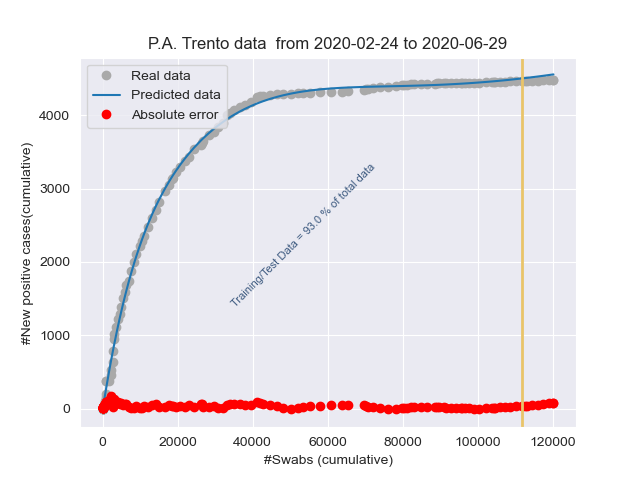
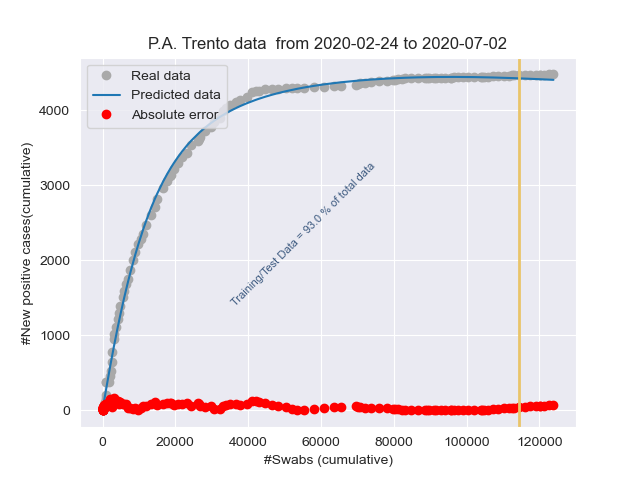
Add files via upload

diff --git a/stat_Friuli Venezia Giulia.html b/stat_Friuli Venezia Giulia.html
@@ -1,1 +1,1 @@
-<!DOCTYPE html><html lang="it"><head><title>Results</title><meta charset="utf-8"><meta name="viewport" content="width=device-width, initial-scale=1"><link rel="stylesheet" href="bootstrap.min.css"><script src="https://ajax.googleapis.com/ajax/libs/jquery/3.4.1/jquery.min.js"></script><script src="https://maxcdn.bootstrapcdn.com/bootstrap/3.4.1/js/bootstrap.min.js"></script></head><body><h3>Day: 2020-06-29</h3><p class="lead my-3">New positive cases: <b>0</b></p><p class="lead my-3">Variation of positive cases: <b>-100.0%</b></p><p class="lead my-3">Number of swabs: <b>719.0</b></p><p class="lead my-3">Variation of swabs: <b>0.38%</b></p><p class="lead my-3">Postive cases/Swabs: <b>0.0 %</b></p><p class="lead my-3">Number of people admitted to Intensive care: <b>0</b></p><p class="lead my-3">Number of recovered people: <b>2.0</b></p><p class="lead my-3">Number of dead people: <b>0.0</b></p><h3>Total</h3><p class="lead my-3">Population of  Friuli Venezia Giulia: <b>1215220</b> <a href="http://dati.istat.it/Index.aspx?QueryId=18548" target="_blank">ISTAT data</a></p><p class="lead my-3">Total number of positive cases from 2020-02-24 00:00:00 to 2020-06-29: <b> 3308</b></p><p class="lead my-3">Total number of swabs from 2020-02-24 00:00:00 to 2020-06-29: <b> 187500</b></p><p class="lead my-3">TotalSwabs/Population: <b> 15.43%</b></p></body></html>
+<!DOCTYPE html><html lang="it"><head><title>Results</title><meta charset="utf-8"><meta name="viewport" content="width=device-width, initial-scale=1"><link rel="stylesheet" href="bootstrap.min.css"><script src="https://ajax.googleapis.com/ajax/libs/jquery/3.4.1/jquery.min.js"></script><script src="https://maxcdn.bootstrapcdn.com/bootstrap/3.4.1/js/bootstrap.min.js"></script></head><body><h3>Day: 2020-07-02</h3><p class="lead my-3">New positive cases: <b>2</b></p><p class="lead my-3">Variation of positive cases: <b>-50.0%</b></p><p class="lead my-3">Number of swabs: <b>2289.0</b></p><p class="lead my-3">Variation of swabs: <b>1.19%</b></p><p class="lead my-3">Postive cases/Swabs: <b>0.09 %</b></p><p class="lead my-3">Number of people admitted to Intensive care: <b>0</b></p><p class="lead my-3">Number of recovered people: <b>-4.0</b></p><p class="lead my-3">Number of dead people: <b>0.0</b></p><h3>Total</h3><p class="lead my-3">Population of  Friuli Venezia Giulia: <b>1215220</b> <a href="http://dati.istat.it/Index.aspx?QueryId=18548" target="_blank">ISTAT data</a></p><p class="lead my-3">Total number of positive cases from 2020-02-24 00:00:00 to 2020-07-02: <b> 3314</b></p><p class="lead my-3">Total number of swabs from 2020-02-24 00:00:00 to 2020-07-02: <b> 194395</b></p><p class="lead my-3">TotalSwabs/Population: <b> 16.0%</b></p></body></html>

diff --git a/stat_Emilia-Romagna.html b/stat_Emilia-Romagna.html
@@ -1,1 +1,1 @@
-<!DOCTYPE html><html lang="it"><head><title>Results</title><meta charset="utf-8"><meta name="viewport" content="width=device-width, initial-scale=1"><link rel="stylesheet" href="bootstrap.min.css"><script src="https://ajax.googleapis.com/ajax/libs/jquery/3.4.1/jquery.min.js"></script><script src="https://maxcdn.bootstrapcdn.com/bootstrap/3.4.1/js/bootstrap.min.js"></script></head><body><h3>Day: 2020-06-29</h3><p class="lead my-3">New positive cases: <b>16</b></p><p class="lead my-3">Variation of positive cases: <b>-23.81%</b></p><p class="lead my-3">Number of swabs: <b>2721.0</b></p><p class="lead my-3">Variation of swabs: <b>0.56%</b></p><p class="lead my-3">Postive cases/Swabs: <b>0.59 %</b></p><p class="lead my-3">Number of people admitted to Intensive care: <b>12</b></p><p class="lead my-3">Number of recovered people: <b>24.0</b></p><p class="lead my-3">Number of dead people: <b>2.0</b></p><h3>Total</h3><p class="lead my-3">Population of  Emilia-Romagna: <b>4459477</b> <a href="http://dati.istat.it/Index.aspx?QueryId=18548" target="_blank">ISTAT data</a></p><p class="lead my-3">Total number of positive cases from 2020-02-24 00:00:00 to 2020-06-29: <b> 28476</b></p><p class="lead my-3">Total number of swabs from 2020-02-24 00:00:00 to 2020-06-29: <b> 489451</b></p><p class="lead my-3">TotalSwabs/Population: <b> 10.98%</b></p></body></html>
+<!DOCTYPE html><html lang="it"><head><title>Results</title><meta charset="utf-8"><meta name="viewport" content="width=device-width, initial-scale=1"><link rel="stylesheet" href="bootstrap.min.css"><script src="https://ajax.googleapis.com/ajax/libs/jquery/3.4.1/jquery.min.js"></script><script src="https://maxcdn.bootstrapcdn.com/bootstrap/3.4.1/js/bootstrap.min.js"></script></head><body><h3>Day: 2020-07-02</h3><p class="lead my-3">New positive cases: <b>27</b></p><p class="lead my-3">Variation of positive cases: <b>68.75%</b></p><p class="lead my-3">Number of swabs: <b>4862.0</b></p><p class="lead my-3">Variation of swabs: <b>0.97%</b></p><p class="lead my-3">Postive cases/Swabs: <b>0.56 %</b></p><p class="lead my-3">Number of people admitted to Intensive care: <b>9</b></p><p class="lead my-3">Number of recovered people: <b>25.0</b></p><p class="lead my-3">Number of dead people: <b>1.0</b></p><h3>Total</h3><p class="lead my-3">Population of  Emilia-Romagna: <b>4459477</b> <a href="http://dati.istat.it/Index.aspx?QueryId=18548" target="_blank">ISTAT data</a></p><p class="lead my-3">Total number of positive cases from 2020-02-24 00:00:00 to 2020-07-02: <b> 28539</b></p><p class="lead my-3">Total number of swabs from 2020-02-24 00:00:00 to 2020-07-02: <b> 504288</b></p><p class="lead my-3">TotalSwabs/Population: <b> 11.31%</b></p></body></html>

diff --git a/stat_Lombardia.html b/stat_Lombardia.html
@@ -1,1 +1,1 @@
-<!DOCTYPE html><html lang="it"><head><title>Results</title><meta charset="utf-8"><meta name="viewport" content="width=device-width, initial-scale=1"><link rel="stylesheet" href="bootstrap.min.css"><script src="https://ajax.googleapis.com/ajax/libs/jquery/3.4.1/jquery.min.js"></script><script src="https://maxcdn.bootstrapcdn.com/bootstrap/3.4.1/js/bootstrap.min.js"></script></head><body><h3>Day: 2020-06-29</h3><p class="lead my-3">New positive cases: <b>78</b></p><p class="lead my-3">Variation of positive cases: <b>-19.59%</b></p><p class="lead my-3">Number of swabs: <b>7991.0</b></p><p class="lead my-3">Variation of swabs: <b>0.78%</b></p><p class="lead my-3">Postive cases/Swabs: <b>0.98 %</b></p><p class="lead my-3">Number of people admitted to Intensive care: <b>43</b></p><p class="lead my-3">Number of recovered people: <b>201.0</b></p><p class="lead my-3">Number of dead people: <b>1.0</b></p><h3>Total</h3><p class="lead my-3">Population of  Lombardia: <b>10060574</b> <a href="http://dati.istat.it/Index.aspx?QueryId=18548" target="_blank">ISTAT data</a></p><p class="lead my-3">Total number of positive cases from 2020-02-24 00:00:00 to 2020-06-29: <b> 93833</b></p><p class="lead my-3">Total number of swabs from 2020-02-24 00:00:00 to 2020-06-29: <b> 1030431</b></p><p class="lead my-3">TotalSwabs/Population: <b> 10.24%</b></p></body></html>
+<!DOCTYPE html><html lang="it"><head><title>Results</title><meta charset="utf-8"><meta name="viewport" content="width=device-width, initial-scale=1"><link rel="stylesheet" href="bootstrap.min.css"><script src="https://ajax.googleapis.com/ajax/libs/jquery/3.4.1/jquery.min.js"></script><script src="https://maxcdn.bootstrapcdn.com/bootstrap/3.4.1/js/bootstrap.min.js"></script></head><body><h3>Day: 2020-07-02</h3><p class="lead my-3">New positive cases: <b>98</b></p><p class="lead my-3">Variation of positive cases: <b>-10.09%</b></p><p class="lead my-3">Number of swabs: <b>9440.0</b></p><p class="lead my-3">Variation of swabs: <b>0.9%</b></p><p class="lead my-3">Postive cases/Swabs: <b>1.04 %</b></p><p class="lead my-3">Number of people admitted to Intensive care: <b>41</b></p><p class="lead my-3">Number of recovered people: <b>188.0</b></p><p class="lead my-3">Number of dead people: <b>21.0</b></p><h3>Total</h3><p class="lead my-3">Population of  Lombardia: <b>10060574</b> <a href="http://dati.istat.it/Index.aspx?QueryId=18548" target="_blank">ISTAT data</a></p><p class="lead my-3">Total number of positive cases from 2020-02-24 00:00:00 to 2020-07-02: <b> 94102</b></p><p class="lead my-3">Total number of swabs from 2020-02-24 00:00:00 to 2020-07-02: <b> 1054415</b></p><p class="lead my-3">TotalSwabs/Population: <b> 10.48%</b></p></body></html>

diff --git a/stat_Italy.html b/stat_Italy.html
@@ -1,1 +1,1 @@
-<!DOCTYPE html><html lang="it"><head><title>Results</title><meta charset="utf-8"><meta name="viewport" content="width=device-width, initial-scale=1"><link rel="stylesheet" href="bootstrap.min.css"><script src="https://ajax.googleapis.com/ajax/libs/jquery/3.4.1/jquery.min.js"></script><script src="https://maxcdn.bootstrapcdn.com/bootstrap/3.4.1/js/bootstrap.min.js"></script></head><body><h3>Day: 2020-06-29</h3><p class="lead my-3">New positive cases: <b>126</b></p><p class="lead my-3">Variation of positive cases: <b>-27.59%</b></p><p class="lead my-3">Number of swabs: <b>27218.0</b></p><p class="lead my-3">Variation of swabs: <b>0.51%</b></p><p class="lead my-3">Postive cases/Swabs: <b>0.46 %</b></p><p class="lead my-3">Number of people admitted to Intensive care: <b>96</b></p><p class="lead my-3">Number of recovered people: <b>305.0</b></p><p class="lead my-3">Number of dead people: <b>6.0</b></p><h3>Total</h3><p class="lead my-3">Population of  Italy: <b>60359546</b> <a href="http://dati.istat.it/Index.aspx?QueryId=18548" target="_blank">ISTAT data</a></p><p class="lead my-3">Total number of positive cases from 2020-02-24 00:00:00 to 2020-06-29: <b> 240453</b></p><p class="lead my-3">Total number of swabs from 2020-02-24 00:00:00 to 2020-06-29: <b> 5341837</b></p><p class="lead my-3">TotalSwabs/Population: <b> 8.85%</b></p></body></html>
+<!DOCTYPE html><html lang="it"><head><title>Results</title><meta charset="utf-8"><meta name="viewport" content="width=device-width, initial-scale=1"><link rel="stylesheet" href="bootstrap.min.css"><script src="https://ajax.googleapis.com/ajax/libs/jquery/3.4.1/jquery.min.js"></script><script src="https://maxcdn.bootstrapcdn.com/bootstrap/3.4.1/js/bootstrap.min.js"></script></head><body><h3>Day: 2020-07-02</h3><p class="lead my-3">New positive cases: <b>201</b></p><p class="lead my-3">Variation of positive cases: <b>7.49%</b></p><p class="lead my-3">Number of swabs: <b>53243.0</b></p><p class="lead my-3">Variation of swabs: <b>0.98%</b></p><p class="lead my-3">Postive cases/Swabs: <b>0.38 %</b></p><p class="lead my-3">Number of people admitted to Intensive care: <b>82</b></p><p class="lead my-3">Number of recovered people: <b>366.0</b></p><p class="lead my-3">Number of dead people: <b>30.0</b></p><h3>Total</h3><p class="lead my-3">Population of  Italy: <b>60359546</b> <a href="http://dati.istat.it/Index.aspx?QueryId=18548" target="_blank">ISTAT data</a></p><p class="lead my-3">Total number of positive cases from 2020-02-24 00:00:00 to 2020-07-02: <b> 240983</b></p><p class="lead my-3">Total number of swabs from 2020-02-24 00:00:00 to 2020-07-02: <b> 5498719</b></p><p class="lead my-3">TotalSwabs/Population: <b> 9.11%</b></p></body></html>

diff --git a/stat_Piemonte.html b/stat_Piemonte.html
@@ -1,1 +1,1 @@
-<!DOCTYPE html><html lang="it"><head><title>Results</title><meta charset="utf-8"><meta name="viewport" content="width=device-width, initial-scale=1"><link rel="stylesheet" href="bootstrap.min.css"><script src="https://ajax.googleapis.com/ajax/libs/jquery/3.4.1/jquery.min.js"></script><script src="https://maxcdn.bootstrapcdn.com/bootstrap/3.4.1/js/bootstrap.min.js"></script></head><body><h3>Day: 2020-06-29</h3><p class="lead my-3">New positive cases: <b>2</b></p><p class="lead my-3">Variation of positive cases: <b>-85.71%</b></p><p class="lead my-3">Number of swabs: <b>1126.0</b></p><p class="lead my-3">Variation of swabs: <b>0.27%</b></p><p class="lead my-3">Postive cases/Swabs: <b>0.18 %</b></p><p class="lead my-3">Number of people admitted to Intensive care: <b>11</b></p><p class="lead my-3">Number of recovered people: <b>5.0</b></p><p class="lead my-3">Number of dead people: <b>2.0</b></p><h3>Total</h3><p class="lead my-3">Population of  Piemonte: <b>4356406</b> <a href="http://dati.istat.it/Index.aspx?QueryId=18548" target="_blank">ISTAT data</a></p><p class="lead my-3">Total number of positive cases from 2020-02-24 00:00:00 to 2020-06-29: <b> 31338</b></p><p class="lead my-3">Total number of swabs from 2020-02-24 00:00:00 to 2020-06-29: <b> 411939</b></p><p class="lead my-3">TotalSwabs/Population: <b> 9.46%</b></p></body></html>
+<!DOCTYPE html><html lang="it"><head><title>Results</title><meta charset="utf-8"><meta name="viewport" content="width=device-width, initial-scale=1"><link rel="stylesheet" href="bootstrap.min.css"><script src="https://ajax.googleapis.com/ajax/libs/jquery/3.4.1/jquery.min.js"></script><script src="https://maxcdn.bootstrapcdn.com/bootstrap/3.4.1/js/bootstrap.min.js"></script></head><body><h3>Day: 2020-07-02</h3><p class="lead my-3">New positive cases: <b>13</b></p><p class="lead my-3">Variation of positive cases: <b>-18.75%</b></p><p class="lead my-3">Number of swabs: <b>3356.0</b></p><p class="lead my-3">Variation of swabs: <b>0.8%</b></p><p class="lead my-3">Postive cases/Swabs: <b>0.39 %</b></p><p class="lead my-3">Number of people admitted to Intensive care: <b>11</b></p><p class="lead my-3">Number of recovered people: <b>62.0</b></p><p class="lead my-3">Number of dead people: <b>5.0</b></p><h3>Total</h3><p class="lead my-3">Population of  Piemonte: <b>4356406</b> <a href="http://dati.istat.it/Index.aspx?QueryId=18548" target="_blank">ISTAT data</a></p><p class="lead my-3">Total number of positive cases from 2020-02-24 00:00:00 to 2020-07-02: <b> 31378</b></p><p class="lead my-3">Total number of swabs from 2020-02-24 00:00:00 to 2020-07-02: <b> 422647</b></p><p class="lead my-3">TotalSwabs/Population: <b> 9.7%</b></p></body></html>

diff --git a/stat_Veneto.html b/stat_Veneto.html
@@ -1,1 +1,1 @@
-<!DOCTYPE html><html lang="it"><head><title>Results</title><meta charset="utf-8"><meta name="viewport" content="width=device-width, initial-scale=1"><link rel="stylesheet" href="bootstrap.min.css"><script src="https://ajax.googleapis.com/ajax/libs/jquery/3.4.1/jquery.min.js"></script><script src="https://maxcdn.bootstrapcdn.com/bootstrap/3.4.1/js/bootstrap.min.js"></script></head><body><h3>Day: 2020-06-29</h3><p class="lead my-3">New positive cases: <b>3</b></p><p class="lead my-3">Variation of positive cases: <b>-72.73%</b></p><p class="lead my-3">Number of swabs: <b>4861.0</b></p><p class="lead my-3">Variation of swabs: <b>0.51%</b></p><p class="lead my-3">Postive cases/Swabs: <b>0.06 %</b></p><p class="lead my-3">Number of people admitted to Intensive care: <b>1</b></p><p class="lead my-3">Number of recovered people: <b>1.0</b></p><p class="lead my-3">Number of dead people: <b>0.0</b></p><h3>Total</h3><p class="lead my-3">Population of  Veneto: <b>4905854</b> <a href="http://dati.istat.it/Index.aspx?QueryId=18548" target="_blank">ISTAT data</a></p><p class="lead my-3">Total number of positive cases from 2020-02-24 00:00:00 to 2020-06-29: <b> 19277</b></p><p class="lead my-3">Total number of swabs from 2020-02-24 00:00:00 to 2020-06-29: <b> 948871</b></p><p class="lead my-3">TotalSwabs/Population: <b> 19.34%</b></p></body></html>
+<!DOCTYPE html><html lang="it"><head><title>Results</title><meta charset="utf-8"><meta name="viewport" content="width=device-width, initial-scale=1"><link rel="stylesheet" href="bootstrap.min.css"><script src="https://ajax.googleapis.com/ajax/libs/jquery/3.4.1/jquery.min.js"></script><script src="https://maxcdn.bootstrapcdn.com/bootstrap/3.4.1/js/bootstrap.min.js"></script></head><body><h3>Day: 2020-07-02</h3><p class="lead my-3">New positive cases: <b>20</b></p><p class="lead my-3">Variation of positive cases: <b>566.67%</b></p><p class="lead my-3">Number of swabs: <b>11821.0</b></p><p class="lead my-3">Variation of swabs: <b>1.22%</b></p><p class="lead my-3">Postive cases/Swabs: <b>0.17 %</b></p><p class="lead my-3">Number of people admitted to Intensive care: <b>0</b></p><p class="lead my-3">Number of recovered people: <b>41.0</b></p><p class="lead my-3">Number of dead people: <b>0.0</b></p><h3>Total</h3><p class="lead my-3">Population of  Veneto: <b>4905854</b> <a href="http://dati.istat.it/Index.aspx?QueryId=18548" target="_blank">ISTAT data</a></p><p class="lead my-3">Total number of positive cases from 2020-02-24 00:00:00 to 2020-07-02: <b> 19308</b></p><p class="lead my-3">Total number of swabs from 2020-02-24 00:00:00 to 2020-07-02: <b> 982614</b></p><p class="lead my-3">TotalSwabs/Population: <b> 20.03%</b></p></body></html>

diff --git a/stat_P.A. Bolzano.html b/stat_P.A. Bolzano.html
@@ -1,1 +1,1 @@
-<!DOCTYPE html><html lang="it"><head><title>Results</title><meta charset="utf-8"><meta name="viewport" content="width=device-width, initial-scale=1"><link rel="stylesheet" href="bootstrap.min.css"><script src="https://ajax.googleapis.com/ajax/libs/jquery/3.4.1/jquery.min.js"></script><script src="https://maxcdn.bootstrapcdn.com/bootstrap/3.4.1/js/bootstrap.min.js"></script></head><body><h3>Day: 2020-06-29</h3><p class="lead my-3">New positive cases: <b>2</b></p><p class="lead my-3">Variation of positive cases: <b>100.0%</b></p><p class="lead my-3">Number of swabs: <b>284.0</b></p><p class="lead my-3">Variation of swabs: <b>0.34%</b></p><p class="lead my-3">Postive cases/Swabs: <b>0.7 %</b></p><p class="lead my-3">Number of people admitted to Intensive care: <b>1</b></p><p class="lead my-3">Number of recovered people: <b>2.0</b></p><p class="lead my-3">Number of dead people: <b>0.0</b></p><h3>Total</h3><p class="lead my-3">Population of  P.A. Bolzano: <b>531178</b> <a href="http://dati.istat.it/Index.aspx?QueryId=18548" target="_blank">ISTAT data</a></p><p class="lead my-3">Total number of positive cases from 2020-02-24 00:00:00 to 2020-06-29: <b> 2638</b></p><p class="lead my-3">Total number of swabs from 2020-02-24 00:00:00 to 2020-06-29: <b> 83729</b></p><p class="lead my-3">TotalSwabs/Population: <b> 15.76%</b></p></body></html>
+<!DOCTYPE html><html lang="it"><head><title>Results</title><meta charset="utf-8"><meta name="viewport" content="width=device-width, initial-scale=1"><link rel="stylesheet" href="bootstrap.min.css"><script src="https://ajax.googleapis.com/ajax/libs/jquery/3.4.1/jquery.min.js"></script><script src="https://maxcdn.bootstrapcdn.com/bootstrap/3.4.1/js/bootstrap.min.js"></script></head><body><h3>Day: 2020-07-02</h3><p class="lead my-3">New positive cases: <b>0</b></p><p class="lead my-3">Variation of positive cases: <b>-100.0%</b></p><p class="lead my-3">Number of swabs: <b>577.0</b></p><p class="lead my-3">Variation of swabs: <b>0.68%</b></p><p class="lead my-3">Postive cases/Swabs: <b>0.0 %</b></p><p class="lead my-3">Number of people admitted to Intensive care: <b>0</b></p><p class="lead my-3">Number of recovered people: <b>0.0</b></p><p class="lead my-3">Number of dead people: <b>0.0</b></p><h3>Total</h3><p class="lead my-3">Population of  P.A. Bolzano: <b>531178</b> <a href="http://dati.istat.it/Index.aspx?QueryId=18548" target="_blank">ISTAT data</a></p><p class="lead my-3">Total number of positive cases from 2020-02-24 00:00:00 to 2020-07-02: <b> 2641</b></p><p class="lead my-3">Total number of swabs from 2020-02-24 00:00:00 to 2020-07-02: <b> 85423</b></p><p class="lead my-3">TotalSwabs/Population: <b> 16.08%</b></p></body></html>

diff --git a/stat_P.A. Trento.html b/stat_P.A. Trento.html
@@ -1,1 +1,1 @@
-<!DOCTYPE html><html lang="it"><head><title>Results</title><meta charset="utf-8"><meta name="viewport" content="width=device-width, initial-scale=1"><link rel="stylesheet" href="bootstrap.min.css"><script src="https://ajax.googleapis.com/ajax/libs/jquery/3.4.1/jquery.min.js"></script><script src="https://maxcdn.bootstrapcdn.com/bootstrap/3.4.1/js/bootstrap.min.js"></script></head><body><h3>Day: 2020-06-29</h3><p class="lead my-3">New positive cases: <b>0</b></p><p class="lead my-3">Variation of positive cases: <b>-100.0%</b></p><p class="lead my-3">Number of swabs: <b>103.0</b></p><p class="lead my-3">Variation of swabs: <b>0.09%</b></p><p class="lead my-3">Postive cases/Swabs: <b>0.0 %</b></p><p class="lead my-3">Number of people admitted to Intensive care: <b>0</b></p><p class="lead my-3">Number of recovered people: <b>1.0</b></p><p class="lead my-3">Number of dead people: <b>0.0</b></p><h3>Total</h3><p class="lead my-3">Population of  P.A. Trento: <b>541098</b> <a href="http://dati.istat.it/Index.aspx?QueryId=18548" target="_blank">ISTAT data</a></p><p class="lead my-3">Total number of positive cases from 2020-02-24 00:00:00 to 2020-06-29: <b> 4476</b></p><p class="lead my-3">Total number of swabs from 2020-02-24 00:00:00 to 2020-06-29: <b> 120168</b></p><p class="lead my-3">TotalSwabs/Population: <b> 22.21%</b></p></body></html>
+<!DOCTYPE html><html lang="it"><head><title>Results</title><meta charset="utf-8"><meta name="viewport" content="width=device-width, initial-scale=1"><link rel="stylesheet" href="bootstrap.min.css"><script src="https://ajax.googleapis.com/ajax/libs/jquery/3.4.1/jquery.min.js"></script><script src="https://maxcdn.bootstrapcdn.com/bootstrap/3.4.1/js/bootstrap.min.js"></script></head><body><h3>Day: 2020-07-02</h3><p class="lead my-3">New positive cases: <b>1</b></p><p class="lead my-3">Variation of positive cases: <b>0.0%</b></p><p class="lead my-3">Number of swabs: <b>1290.0</b></p><p class="lead my-3">Variation of swabs: <b>1.05%</b></p><p class="lead my-3">Postive cases/Swabs: <b>0.08 %</b></p><p class="lead my-3">Number of people admitted to Intensive care: <b>0</b></p><p class="lead my-3">Number of recovered people: <b>2.0</b></p><p class="lead my-3">Number of dead people: <b>0.0</b></p><h3>Total</h3><p class="lead my-3">Population of  P.A. Trento: <b>541098</b> <a href="http://dati.istat.it/Index.aspx?QueryId=18548" target="_blank">ISTAT data</a></p><p class="lead my-3">Total number of positive cases from 2020-02-24 00:00:00 to 2020-07-02: <b> 4478</b></p><p class="lead my-3">Total number of swabs from 2020-02-24 00:00:00 to 2020-07-02: <b> 123864</b></p><p class="lead my-3">TotalSwabs/Population: <b> 22.89%</b></p></body></html>

diff --git a/stat_Lazio.html b/stat_Lazio.html
@@ -1,1 +1,1 @@
-<!DOCTYPE html><html lang="it"><head><title>Results</title><meta charset="utf-8"><meta name="viewport" content="width=device-width, initial-scale=1"><link rel="stylesheet" href="bootstrap.min.css"><script src="https://ajax.googleapis.com/ajax/libs/jquery/3.4.1/jquery.min.js"></script><script src="https://maxcdn.bootstrapcdn.com/bootstrap/3.4.1/js/bootstrap.min.js"></script></head><body><h3>Day: 2020-06-29</h3><p class="lead my-3">New positive cases: <b>9</b></p><p class="lead my-3">Variation of positive cases: <b>-35.71%</b></p><p class="lead my-3">Number of swabs: <b>1899.0</b></p><p class="lead my-3">Variation of swabs: <b>0.57%</b></p><p class="lead my-3">Postive cases/Swabs: <b>0.47 %</b></p><p class="lead my-3">Number of people admitted to Intensive care: <b>13</b></p><p class="lead my-3">Number of recovered people: <b>10.0</b></p><p class="lead my-3">Number of dead people: <b>0.0</b></p><h3>Total</h3><p class="lead my-3">Population of  Lazio: <b>5879082</b> <a href="http://dati.istat.it/Index.aspx?QueryId=18548" target="_blank">ISTAT data</a></p><p class="lead my-3">Total number of positive cases from 2020-02-24 00:00:00 to 2020-06-29: <b> 8104</b></p><p class="lead my-3">Total number of swabs from 2020-02-24 00:00:00 to 2020-06-29: <b> 335751</b></p><p class="lead my-3">TotalSwabs/Population: <b> 5.71%</b></p></body></html>
+<!DOCTYPE html><html lang="it"><head><title>Results</title><meta charset="utf-8"><meta name="viewport" content="width=device-width, initial-scale=1"><link rel="stylesheet" href="bootstrap.min.css"><script src="https://ajax.googleapis.com/ajax/libs/jquery/3.4.1/jquery.min.js"></script><script src="https://maxcdn.bootstrapcdn.com/bootstrap/3.4.1/js/bootstrap.min.js"></script></head><body><h3>Day: 2020-07-02</h3><p class="lead my-3">New positive cases: <b>11</b></p><p class="lead my-3">Variation of positive cases: <b>22.22%</b></p><p class="lead my-3">Number of swabs: <b>2799.0</b></p><p class="lead my-3">Variation of swabs: <b>0.82%</b></p><p class="lead my-3">Postive cases/Swabs: <b>0.39 %</b></p><p class="lead my-3">Number of people admitted to Intensive care: <b>11</b></p><p class="lead my-3">Number of recovered people: <b>12.0</b></p><p class="lead my-3">Number of dead people: <b>0.0</b></p><h3>Total</h3><p class="lead my-3">Population of  Lazio: <b>5879082</b> <a href="http://dati.istat.it/Index.aspx?QueryId=18548" target="_blank">ISTAT data</a></p><p class="lead my-3">Total number of positive cases from 2020-02-24 00:00:00 to 2020-07-02: <b> 8129</b></p><p class="lead my-3">Total number of swabs from 2020-02-24 00:00:00 to 2020-07-02: <b> 343882</b></p><p class="lead my-3">TotalSwabs/Population: <b> 5.85%</b></p></body></html>

diff --git a/stat_Campania.html b/stat_Campania.html
@@ -1,1 +1,1 @@
-<!DOCTYPE html><html lang="it"><head><title>Results</title><meta charset="utf-8"><meta name="viewport" content="width=device-width, initial-scale=1"><link rel="stylesheet" href="bootstrap.min.css"><script src="https://ajax.googleapis.com/ajax/libs/jquery/3.4.1/jquery.min.js"></script><script src="https://maxcdn.bootstrapcdn.com/bootstrap/3.4.1/js/bootstrap.min.js"></script></head><body><h3>Day: 2020-06-29</h3><p class="lead my-3">New positive cases: <b>1</b></p><p class="lead my-3">Variation of positive cases: <b>inf%</b></p><p class="lead my-3">Number of swabs: <b>1686.0</b></p><p class="lead my-3">Variation of swabs: <b>0.61%</b></p><p class="lead my-3">Postive cases/Swabs: <b>0.06 %</b></p><p class="lead my-3">Number of people admitted to Intensive care: <b>0</b></p><p class="lead my-3">Number of recovered people: <b>2.0</b></p><p class="lead my-3">Number of dead people: <b>0.0</b></p><h3>Total</h3><p class="lead my-3">Population of  Campania: <b>5801692</b> <a href="http://dati.istat.it/Index.aspx?QueryId=18548" target="_blank">ISTAT data</a></p><p class="lead my-3">Total number of positive cases from 2020-02-24 00:00:00 to 2020-06-29: <b> 4666</b></p><p class="lead my-3">Total number of swabs from 2020-02-24 00:00:00 to 2020-06-29: <b> 279246</b></p><p class="lead my-3">TotalSwabs/Population: <b> 4.81%</b></p></body></html>
+<!DOCTYPE html><html lang="it"><head><title>Results</title><meta charset="utf-8"><meta name="viewport" content="width=device-width, initial-scale=1"><link rel="stylesheet" href="bootstrap.min.css"><script src="https://ajax.googleapis.com/ajax/libs/jquery/3.4.1/jquery.min.js"></script><script src="https://maxcdn.bootstrapcdn.com/bootstrap/3.4.1/js/bootstrap.min.js"></script></head><body><h3>Day: 2020-07-02</h3><p class="lead my-3">New positive cases: <b>3</b></p><p class="lead my-3">Variation of positive cases: <b>-66.67%</b></p><p class="lead my-3">Number of swabs: <b>1424.0</b></p><p class="lead my-3">Variation of swabs: <b>0.5%</b></p><p class="lead my-3">Postive cases/Swabs: <b>0.21 %</b></p><p class="lead my-3">Number of people admitted to Intensive care: <b>0</b></p><p class="lead my-3">Number of recovered people: <b>2.0</b></p><p class="lead my-3">Number of dead people: <b>0.0</b></p><h3>Total</h3><p class="lead my-3">Population of  Campania: <b>5801692</b> <a href="http://dati.istat.it/Index.aspx?QueryId=18548" target="_blank">ISTAT data</a></p><p class="lead my-3">Total number of positive cases from 2020-02-24 00:00:00 to 2020-07-02: <b> 4702</b></p><p class="lead my-3">Total number of swabs from 2020-02-24 00:00:00 to 2020-07-02: <b> 286812</b></p><p class="lead my-3">TotalSwabs/Population: <b> 4.94%</b></p></body></html>

diff --git a/stat_Liguria.html b/stat_Liguria.html
@@ -1,1 +1,1 @@
-<!DOCTYPE html><html lang="it"><head><title>Results</title><meta charset="utf-8"><meta name="viewport" content="width=device-width, initial-scale=1"><link rel="stylesheet" href="bootstrap.min.css"><script src="https://ajax.googleapis.com/ajax/libs/jquery/3.4.1/jquery.min.js"></script><script src="https://maxcdn.bootstrapcdn.com/bootstrap/3.4.1/js/bootstrap.min.js"></script></head><body><h3>Day: 2020-06-29</h3><p class="lead my-3">New positive cases: <b>7</b></p><p class="lead my-3">Variation of positive cases: <b>75.0%</b></p><p class="lead my-3">Number of swabs: <b>791.0</b></p><p class="lead my-3">Variation of swabs: <b>0.55%</b></p><p class="lead my-3">Postive cases/Swabs: <b>0.88 %</b></p><p class="lead my-3">Number of people admitted to Intensive care: <b>3</b></p><p class="lead my-3">Number of recovered people: <b>2.0</b></p><p class="lead my-3">Number of dead people: <b>0.0</b></p><h3>Total</h3><p class="lead my-3">Population of  Liguria: <b>1550640</b> <a href="http://dati.istat.it/Index.aspx?QueryId=18548" target="_blank">ISTAT data</a></p><p class="lead my-3">Total number of positive cases from 2020-02-24 00:00:00 to 2020-06-29: <b> 9974</b></p><p class="lead my-3">Total number of swabs from 2020-02-24 00:00:00 to 2020-06-29: <b> 145902</b></p><p class="lead my-3">TotalSwabs/Population: <b> 9.41%</b></p></body></html>
+<!DOCTYPE html><html lang="it"><head><title>Results</title><meta charset="utf-8"><meta name="viewport" content="width=device-width, initial-scale=1"><link rel="stylesheet" href="bootstrap.min.css"><script src="https://ajax.googleapis.com/ajax/libs/jquery/3.4.1/jquery.min.js"></script><script src="https://maxcdn.bootstrapcdn.com/bootstrap/3.4.1/js/bootstrap.min.js"></script></head><body><h3>Day: 2020-07-02</h3><p class="lead my-3">New positive cases: <b>2</b></p><p class="lead my-3">Variation of positive cases: <b>-60.0%</b></p><p class="lead my-3">Number of swabs: <b>1325.0</b></p><p class="lead my-3">Variation of swabs: <b>0.89%</b></p><p class="lead my-3">Postive cases/Swabs: <b>0.15 %</b></p><p class="lead my-3">Number of people admitted to Intensive care: <b>3</b></p><p class="lead my-3">Number of recovered people: <b>1.0</b></p><p class="lead my-3">Number of dead people: <b>0.0</b></p><h3>Total</h3><p class="lead my-3">Population of  Liguria: <b>1550640</b> <a href="http://dati.istat.it/Index.aspx?QueryId=18548" target="_blank">ISTAT data</a></p><p class="lead my-3">Total number of positive cases from 2020-02-24 00:00:00 to 2020-07-02: <b> 9984</b></p><p class="lead my-3">Total number of swabs from 2020-02-24 00:00:00 to 2020-07-02: <b> 149910</b></p><p class="lead my-3">TotalSwabs/Population: <b> 9.67%</b></p></body></html>

diff --git a/stat_Sicilia.html b/stat_Sicilia.html
@@ -1,1 +1,1 @@
-<!DOCTYPE html><html lang="it"><head><title>Results</title><meta charset="utf-8"><meta name="viewport" content="width=device-width, initial-scale=1"><link rel="stylesheet" href="bootstrap.min.css"><script src="https://ajax.googleapis.com/ajax/libs/jquery/3.4.1/jquery.min.js"></script><script src="https://maxcdn.bootstrapcdn.com/bootstrap/3.4.1/js/bootstrap.min.js"></script></head><body><h3>Day: 2020-06-29</h3><p class="lead my-3">New positive cases: <b>1</b></p><p class="lead my-3">Variation of positive cases: <b>inf%</b></p><p class="lead my-3">Number of swabs: <b>1058.0</b></p><p class="lead my-3">Variation of swabs: <b>0.51%</b></p><p class="lead my-3">Postive cases/Swabs: <b>0.09 %</b></p><p class="lead my-3">Number of people admitted to Intensive care: <b>3</b></p><p class="lead my-3">Number of recovered people: <b>4.0</b></p><p class="lead my-3">Number of dead people: <b>0.0</b></p><h3>Total</h3><p class="lead my-3">Population of  Sicilia: <b>4999891</b> <a href="http://dati.istat.it/Index.aspx?QueryId=18548" target="_blank">ISTAT data</a></p><p class="lead my-3">Total number of positive cases from 2020-02-24 00:00:00 to 2020-06-29: <b> 3475</b></p><p class="lead my-3">Total number of swabs from 2020-02-24 00:00:00 to 2020-06-29: <b> 206550</b></p><p class="lead my-3">TotalSwabs/Population: <b> 4.13%</b></p></body></html>
+<!DOCTYPE html><html lang="it"><head><title>Results</title><meta charset="utf-8"><meta name="viewport" content="width=device-width, initial-scale=1"><link rel="stylesheet" href="bootstrap.min.css"><script src="https://ajax.googleapis.com/ajax/libs/jquery/3.4.1/jquery.min.js"></script><script src="https://maxcdn.bootstrapcdn.com/bootstrap/3.4.1/js/bootstrap.min.js"></script></head><body><h3>Day: 2020-07-02</h3><p class="lead my-3">New positive cases: <b>9</b></p><p class="lead my-3">Variation of positive cases: <b>800.0%</b></p><p class="lead my-3">Number of swabs: <b>2821.0</b></p><p class="lead my-3">Variation of swabs: <b>1.33%</b></p><p class="lead my-3">Postive cases/Swabs: <b>0.32 %</b></p><p class="lead my-3">Number of people admitted to Intensive care: <b>3</b></p><p class="lead my-3">Number of recovered people: <b>1.0</b></p><p class="lead my-3">Number of dead people: <b>0.0</b></p><h3>Total</h3><p class="lead my-3">Population of  Sicilia: <b>4999891</b> <a href="http://dati.istat.it/Index.aspx?QueryId=18548" target="_blank">ISTAT data</a></p><p class="lead my-3">Total number of positive cases from 2020-02-24 00:00:00 to 2020-07-02: <b> 3487</b></p><p class="lead my-3">Total number of swabs from 2020-02-24 00:00:00 to 2020-07-02: <b> 214317</b></p><p class="lead my-3">TotalSwabs/Population: <b> 4.29%</b></p></body></html>
